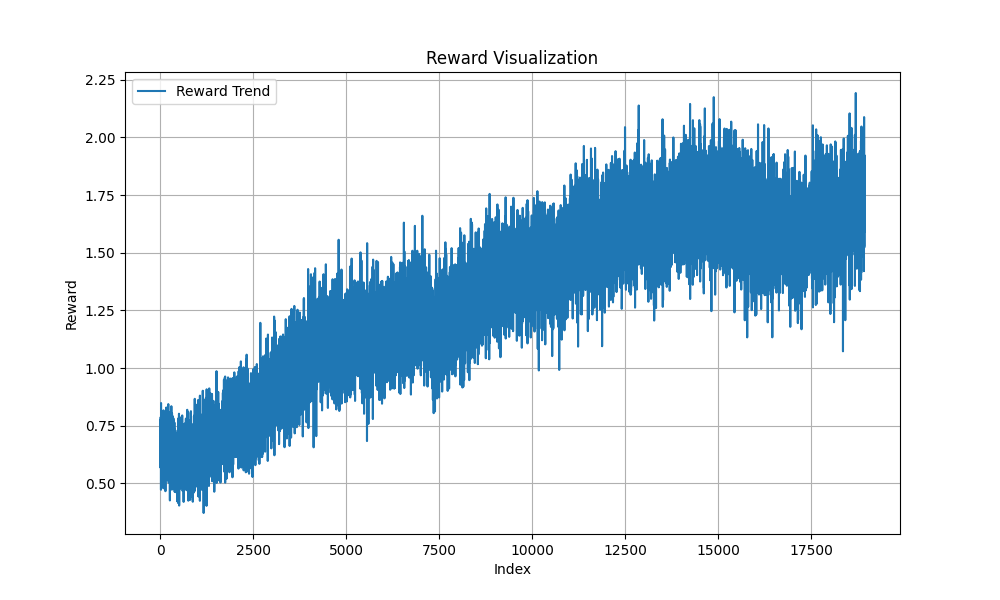
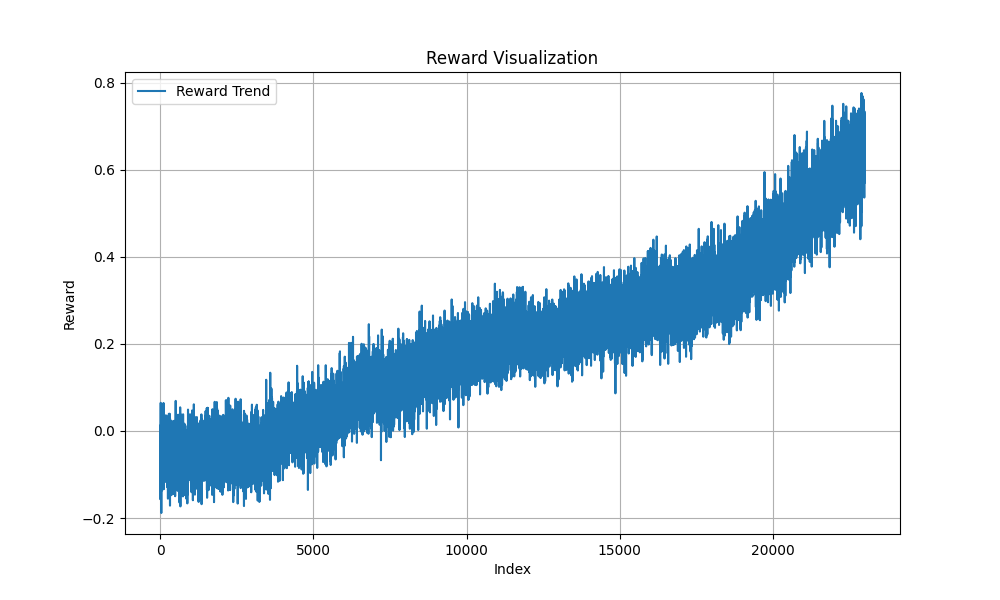
modified ga_data_generation.py to enable 4 environments generations concurrently. modified ppo.args to speed up data generation.

diff --git a/data_generator/ga_data_generation.py b/data_generator/ga_data_generation.py
@@ -6,6 +6,8 @@ import math
 import json
 import argparse
 from typing import List
+from threading import Thread
+import time
 
 import sys
 from pathlib import Path
@@ -20,10 +22,10 @@ from utils.algo_utils import get_percent_survival_evals, mutate, Structure
 
 # List of environment names
 env_names = [
-    "Walker-v0",
-    "BridgeWalker-v0",
-    "CaveCrawler-v0",
-    "Jumper-v0",
+    # "Walker-v0",
+    # "BridgeWalker-v0",
+    # "CaveCrawler-v0",
+    # "Jumper-v0",
     "Flipper-v0",
     "Balancer-v0",
     "Balancer-v1",
@@ -54,41 +56,6 @@ env_names = [
     "BidirectionalWalker-v0",
 ]
 
-name_dict = {
-    "Walker-v0": "walk:WalkingFlat",
-    "BridgeWalker-v0": "walk:SoftBridge",
-    "CaveCrawler-v0": "walk:Duck",
-    "Jumper-v0": "jump:StationaryJump",
-    "Flipper-v0": "flip:Flipping",
-    "Balancer-v0": "balance:Balance",
-    "Balancer-v1": "balance:BalanceJump",
-    "UpStepper-v0": "traverse:StepsUp",
-    "DownStepper-v0": "traverse:StepsDown",
-    "ObstacleTraverser-v0": "traverse:WalkingBumpy",
-    "ObstacleTraverser-v1": "traverse:WalkingBumpy2",
-    "Hurdler-v0": "traverse:VerticalBarrier",
-    "GapJumper-v0": "traverse:Gaps",
-    "PlatformJumper-v0": "traverse:FloatingPlatform",
-    "Traverser-v0": "traverse:BlockSoup",
-    "Lifter-v0": "manipulate:LiftSmallRect",
-    "Carrier-v0": "manipulate:CarrySmallRect",
-    "Carrier-v1": "manipulate:CarrySmallRectToTable",
-    "Pusher-v0": "manipulate:PushSmallRect",
-    "Pusher-v1": "manipulate:PushSmallRectOnOppositeSide",
-    "BeamToppler-v0": "manipulate:ToppleBeam",
-    "BeamSlider-v0": "manipulate:SlideBeam",
-    "Thrower-v0": "manipulate:ThrowSmallRect",
-    "Catcher-v0": "manipulate:CatchSmallRect",
-    "AreaMaximizer-v0": "change_shape:MaximizeShape",
-    "AreaMinimizer-v0": "change_shape:MinimizeShape",
-    "WingspanMazimizer-v0": "change_shape:MaximizeXShape",
-    "HeightMaximizer-v0": "change_shape:MaximizeYShape",
-    "Climber-v0": "climb:Climb0",
-    "Climber-v1": "climb:Climb1",
-    "Climber-v2": "climb:Climb2",
-    "BidirectionalWalker-v0": "multi_goal:BiWalk"
-}
-
 def run_ga(
     args: argparse.Namespace,
 ):
@@ -105,17 +72,8 @@ def run_ga(
 
     ### MANAGE DIRECTORIES ###
     home_path = os.path.join("/media/hdd2/saved_data", exp_name)
-    results_path = os.path.join("/media/hdd2/saved_data", exp_name, f"{name_dict[env_name]}_results.json")
+    results_path = os.path.join("/media/hdd2/saved_data", exp_name, f"{env_name}_results.json")
     start_gen = 0
-
-    ### INITIALIZE RESULT STORAGE ###
-    results = {f'{env_name}_{name_dict[env_name]}': []}
-    if os.path.exists(results_path):
-        print(f"Loading existing results from {results_path}")
-        with open(results_path, "r") as f:
-            results = json.load(f)
-            start_gen = len(results.get(env_name, []))
-
     ### DEFINE TERMINATION CONDITION ###
 
     is_continuing = False    
@@ -205,10 +163,15 @@ def run_ga(
         generation = start_gen
 
 
+    ### INITIALIZE RESULT STORAGE ###
+    with open(results_path, "w") as f:
+        f.write("[\n")  # Start the array
+
+    ### TRAIN GENERATION ###
     while True:
 
         ### UPDATE NUM SURVIORS ###			
-        percent_survival = get_percent_survival_evals(num_evaluations, max_evaluations)
+        percent_survival = 0.5
         num_survivors = max(2, math.ceil(pop_size * percent_survival))
 
 
@@ -256,20 +219,20 @@ def run_ga(
         group.run_jobs(num_cores)
 
         ### COMPUTE FITNESS, SORT, AND SAVE ###
-        generation_data = []
-        for structure in structures:
-            structure.compute_fitness()
-            generation_data.append({
-                "structure": structure.body.tolist(),
-                "connections": structure.connections.tolist(),
-                "reward": structure.fitness
-            })
-
-        results[f'{env_name}_{name_dict[env_name]}'].append(generation_data)
-
-        # SAVE RESULTS TO FILE
-        with open(results_path, "w") as f:
-            json.dump(results, f, indent=4)
+        # Append results to JSON file
+        with open(results_path, "a") as f:  # Append mode
+            for i, structure in enumerate(structures):
+                result_entry = {
+                    "env_name": env_name,
+                    "structure": structure.body.tolist(),
+                    "connections": structure.connections.tolist(),
+                    "reward": structure.fitness,
+                }
+                json.dump(result_entry, f, indent=4)  # Add each dictionary with optional indentation
+                if num_evaluations < max_evaluations - 1 or i < len(structures) - 1:
+                    f.write(",\n")  # Add a comma between entries except the last one
+                else:
+                    f.write("\n")  # No comma for the last entry
 
         structures = sorted(structures, key=lambda structure: structure.fitness, reverse=True)
 
@@ -285,6 +248,9 @@ def run_ga(
 
          ### CHECK EARLY TERMINATION ###
         if num_evaluations == max_evaluations:
+            # Close the JSON array after all generations
+            with open(results_path, "a") as f:
+                f.write("]\n")  # End the array
             print(f'Trained exactly {num_evaluations} robots')
             return
 
@@ -320,19 +286,46 @@ def run_ga(
 
         generation += 1
 
+def run_single_env(env_name, args):
+    """Run GA for a single environment."""
+    print(f"\nStarting experiment for environment: {env_name}")
+
+    # Create arguments specific to this environment
+    args.exp_name = f'test_ga_{env_name}'
+    args.env_name = env_name
+
+    # Run GA
+    run_ga(args)
+
+    print(f"\nCompleted experiment for environment: {env_name}\n")
+
+
 def run_all_envs(args: argparse.Namespace):
-    """Run GA for all environments in env_names."""
-    for env_name in env_names:
-        print(f"\nStarting experiment for environment: {env_name}")
+    """Run GA for all environments in batches of 4 using threading."""
+    num_threads = 4  # Number of parallel threads
+    batch_size = num_threads  # Run 4 environments at a time
 
-        # Create arguments specific to this environment
-        args.exp_name = f'test_ga_{env_name}'
-        args.env_name = env_name
+    # Split the environments into batches of size `batch_size`
+    for i in range(0, len(env_names), batch_size):
+        batch = env_names[i:i + batch_size]
 
-        # Run GA
-        run_ga(args)
+        print(f"\nStarting batch {i // batch_size + 1} with environments: {batch}")
 
-        print(f"\nCompleted experiment for environment: {env_name}\n")
+        threads = []
+
+        # Launch threads for the current batch
+        for env_name in batch:
+            t = Thread(target=run_single_env, args=(env_name, args))
+            t.start()
+            threads.append(t)
+
+        # Wait for all threads in the batch to complete
+        for t in threads:
+            t.join()
+
+        print(f"\nCompleted batch {i // batch_size + 1}.\n")
+        time.sleep(1)  # Optional: Add a delay between batches
+
 
 if __name__ == "__main__":
     # Set seeds for reproducibility
@@ -344,9 +337,9 @@ if __name__ == "__main__":
     parser = argparse.ArgumentParser(description="Arguments for GA script")
     parser.add_argument("--exp-name", type=str, default="test_ga", help="Name of the experiment (default: test_ga)")
     parser.add_argument("--env-name", type=str, default=None, help="Name of the environment to run (default: None)")
-    parser.add_argument("--pop-size", type=int, default=3, help="Population size (default: 3)")
+    parser.add_argument("--pop-size", type=int, default=30, help="Population size (default: 30)")
     parser.add_argument("--structure_shape", type=tuple, default=(5, 5), help="Shape of the structure (default: (5,5))")
-    parser.add_argument("--max-evaluations", type=int, default=6, help="Maximum number of robots to evaluate (default: 6)")
+    parser.add_argument("--max-evaluations", type=int, default=3000, help="Maximum number of robots to evaluate (default: 3000)")
     parser.add_argument("--num-cores", type=int, default=3, help="Number of robots to evaluate simultaneously (default: 3)")
     parser.add_argument("--run-all", action="store_true", help="Run GA for all environments in env_names")
     add_ppo_args(parser)
@@ -361,4 +354,3 @@ if __name__ == "__main__":
             print("Please provide an environment name with --env-name or use --run-all to run all environments.")
         else:
             run_ga(args)
-

diff --git a/examples/ppo/args.py b/examples/ppo/args.py
@@ -11,7 +11,7 @@ def add_ppo_args(parser: argparse.ArgumentParser) -> None:
         '--verbose-ppo', default=1, type=int, help='Verbosity level for PPO: 0 for no output, 1 for info messages (such as device or wrappers used), 2 for debug messages (default: 1)'
     )
     ppo_parser.add_argument(
-        '--learning-rate', default=2.5e-4, type=float, help='Learning rate for PPO (default: 2.5e-4)'
+        '--learning-rate', default=5e-3, type=float, help='Learning rate for PPO (default: 2.5e-4)'
     )
     ppo_parser.add_argument(
         '--n-steps', default=128, type=int, help='The number of steps to run for each environment per update for PPO (i.e. rollout buffer size is n_steps * n_envs where n_envs is number of environment copies running in parallel) (default: 128)'
@@ -41,7 +41,7 @@ def add_ppo_args(parser: argparse.ArgumentParser) -> None:
         '--clip-range', default=0.1, type=float, help='Clipping parameter for PPO (default: 0.1)'
     )
     ppo_parser.add_argument(
-        '--total-timesteps', default=1e6, type=int, help='Total number of timesteps for PPO (default: 1e6)'
+        '--total-timesteps', default=1e3, type=int, help='Total number of timesteps for PPO (default: 1e6)'
     )
     ppo_parser.add_argument(
         '--log-interval', default=50, type=int, help='Episodes before logging PPO (default: 50)'
@@ -56,5 +56,5 @@ def add_ppo_args(parser: argparse.ArgumentParser) -> None:
         '--n-evals', default=1, type=int, help='Number of times to run the environment during each eval (default: 1)'
     )
     ppo_parser.add_argument(
-        '--eval-interval', default=1e5, type=int, help='Number of steps before evaluating PPO model (default: 1e5)'
+        '--eval-interval', default=330, type=int, help='Number of steps before evaluating PPO model (default: 1e5)'
     )

diff --git a/data_generator/reward_visualization.py b/data_generator/reward_visualization.py
@@ -2,7 +2,7 @@ import json
 import matplotlib.pyplot as plt
 
 # Load JSON file
-result_path = '/media/hdd2/saved_data/test_ppo_0/ppo_data_5/Walker-v0_results.json'
+result_path = '/media/hdd2/saved_data/test_ppo_0/ppo_data_5/Walker-v0/Walker-v0_results.json'
 with open(result_path, 'r') as file:
     data = json.load(file)
 
